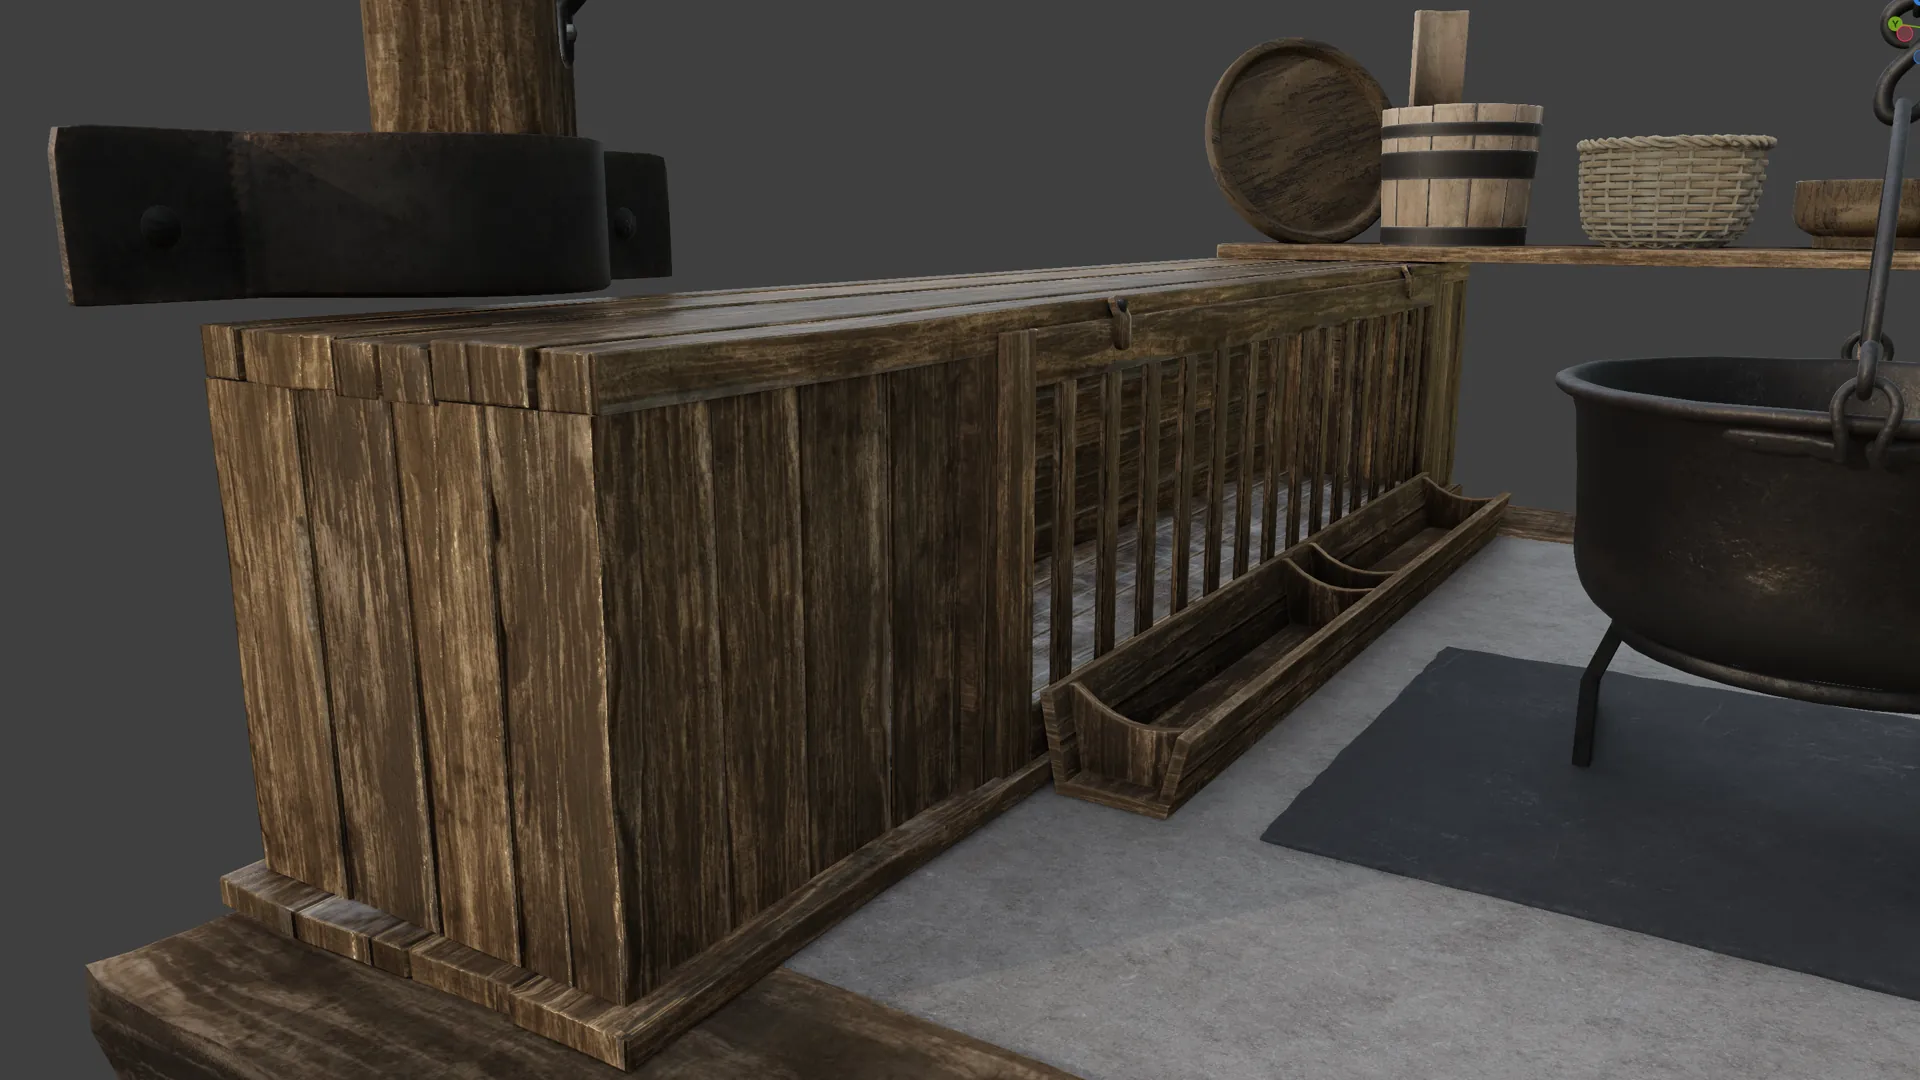
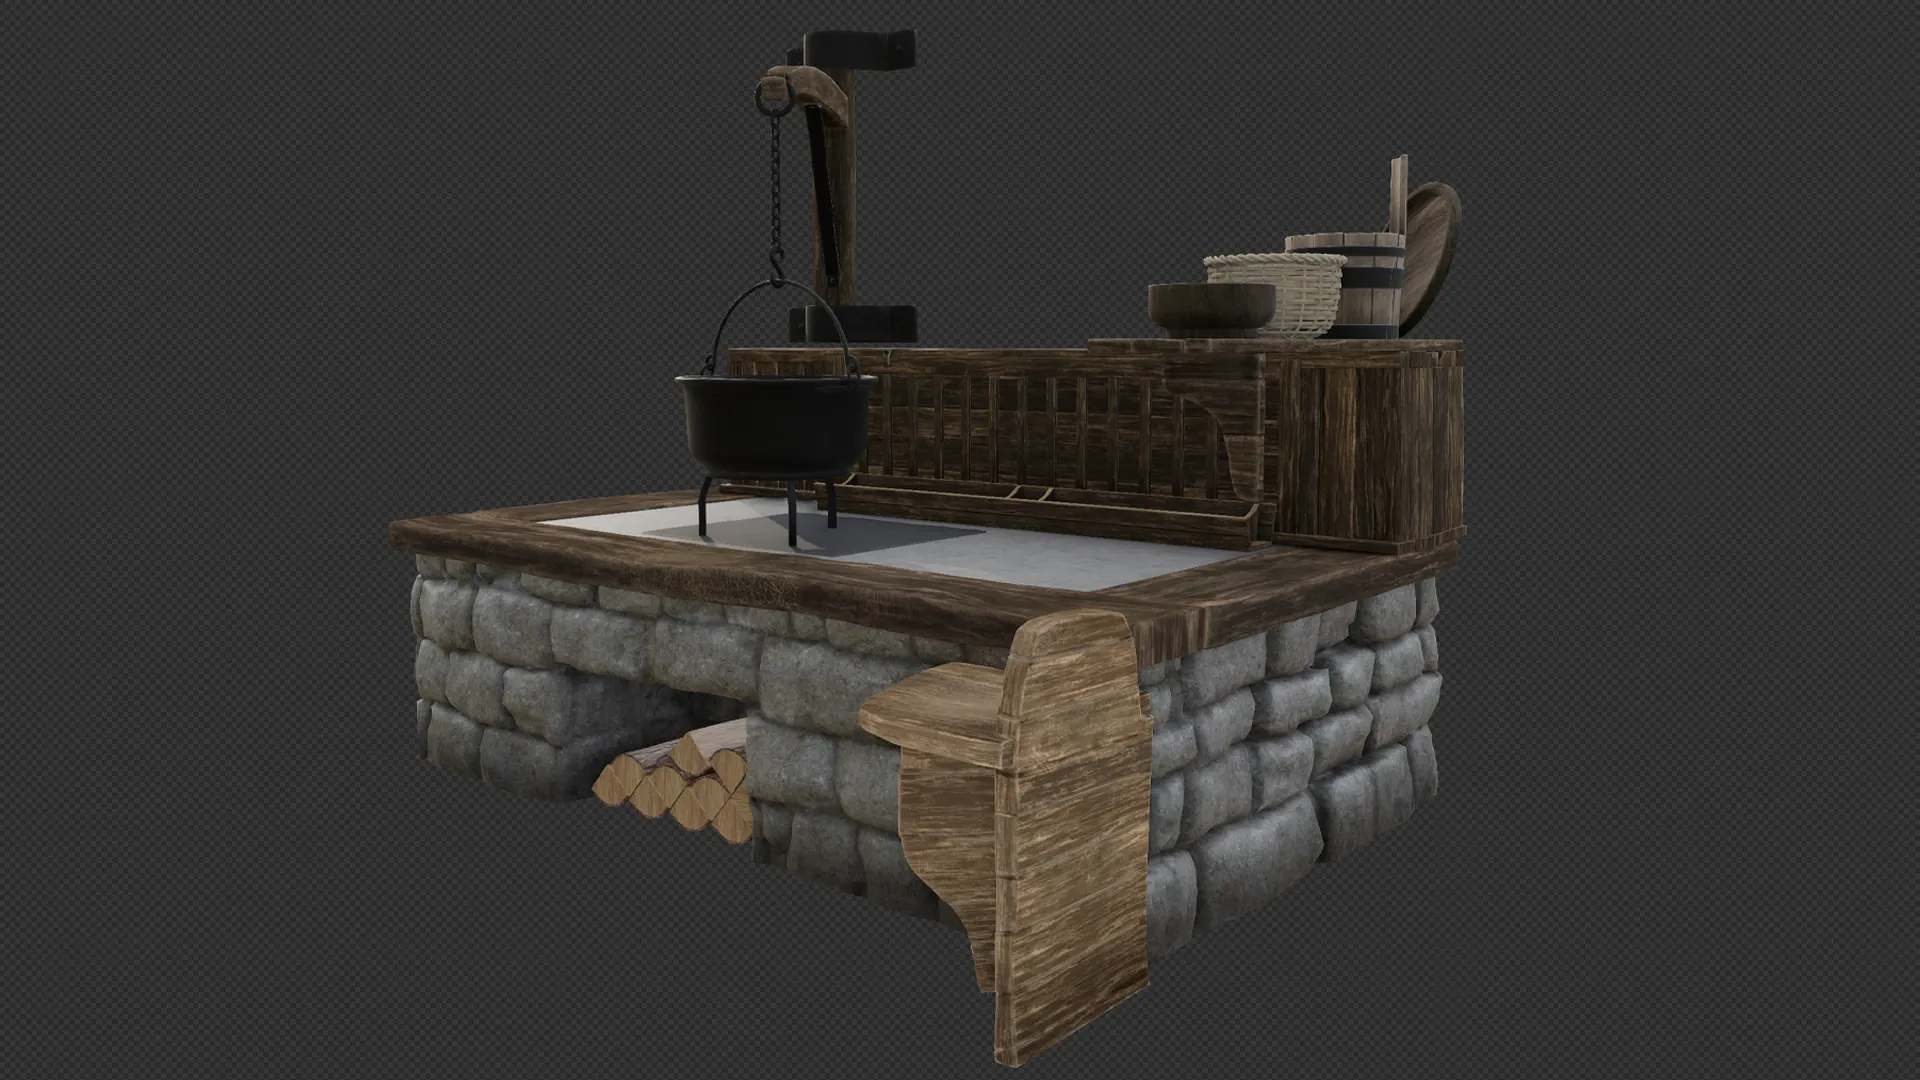
more pictures

diff --git a/index.html b/index.html
@@ -169,31 +169,9 @@
             </a>
           </article>
 
-          <article class="project-card" data-category="3d offline characters">
-            <a href="projects/plantbot.html" class="project-card__link">
-              <div class="project-card__image">
-                <img src="images/plantbot/01_thumb.webp" alt="Plantbot Closeup" loading="lazy">
-              </div>
-              <div class="project-card__body">
-                <span class="tag tag--sm">3D | Offline | Charaktere</span>
-                <p class="project-card__client">Privates Projekt</p>
-                <h3 class="project-card__title">Plant Bot</h3>
-              </div>
-            </a>
-          </article>
 
-          <article class="project-card" data-category="graphic-design">
-            <a href="projects/metoo.html" class="project-card__link">
-              <div class="project-card__image">
-                <img src="images/metoo/01_thumb.webp" alt="Energydrink Dosen" loading="lazy">
-              </div>
-              <div class="project-card__body">
-                <span class="tag tag--sm">Grafikdesign</span>
-                <p class="project-card__client">WDA</p>
-                <h3 class="project-card__title">Me Too - Energydrink</h3>
-              </div>
-            </a>
-          </article>
+
+
           <article class="project-card" data-category="3d offline characters">
             <a href="projects/ruindoll.html" class="project-card__link">
               <div class="project-card__image">
@@ -218,6 +196,60 @@
                 <p class="project-card__client">Universität Innsbruck</p>
                 <h3 class="project-card__title">Gen Alpha eSports</h3>
 
+              </div>
+            </a>
+          </article>
+
+                    <article class="project-card" data-category="3d realtime animation characters">
+            <a href="projects/vogel-aus-dem-eis.html" class="project-card__link">
+              <div class="project-card__image">
+                <img src="images/Vogel aus dem Eis/01_thumb.webp" alt="msqbot" loading="lazy">
+              </div>
+              <div class="project-card__body">
+                <span class="tag tag--sm">3D | Realtime</span>
+                <p class="project-card__client">Medizinische Universität Innsbruck</p>
+                <h3 class="project-card__title">Der Vogel aus dem Eis</h3>
+              </div>
+            </a>
+          </article>
+
+          <article class="project-card" data-category="3d offline characters">
+            <a href="projects/plantbot.html" class="project-card__link">
+              <div class="project-card__image">
+                <img src="images/plantbot/01_thumb.webp" alt="Plantbot Closeup" loading="lazy">
+              </div>
+              <div class="project-card__body">
+                <span class="tag tag--sm">3D | Offline | Charaktere</span>
+                <p class="project-card__client">Privates Projekt</p>
+                <h3 class="project-card__title">Plant Bot</h3>
+              </div>
+            </a>
+          </article>
+
+
+
+          <article class="project-card" data-category="3d realtime">
+            <a href="projects/game-assets.html" class="project-card__link">
+              <div class="project-card__image">
+                <img src="images/game-assets/01_thumb.webp" alt="altertümliche Küche" loading="lazy">
+              </div>
+              <div class="project-card__body">
+                <span class="tag tag--sm">3D | Realtime</span>
+                <p class="project-card__client">Privates Projekt</p>
+                <h3 class="project-card__title">Game Assets</h3>
+              </div>
+            </a>
+          </article>
+          
+                    <article class="project-card" data-category="graphic-design">
+            <a href="projects/metoo.html" class="project-card__link">
+              <div class="project-card__image">
+                <img src="images/metoo/01_thumb.webp" alt="Energydrink Dosen" loading="lazy">
+              </div>
+              <div class="project-card__body">
+                <span class="tag tag--sm">Grafikdesign</span>
+                <p class="project-card__client">WDA</p>
+                <h3 class="project-card__title">Me Too - Energydrink</h3>
               </div>
             </a>
           </article>
@@ -250,18 +282,7 @@
           </article>
 
 
-          <article class="project-card" data-category="3d realtime animation characters">
-            <a href="projects/vogel-aus-dem-eis.html" class="project-card__link">
-              <div class="project-card__image">
-                <img src="images/Vogel aus dem Eis/01_thumb.webp" alt="msqbot" loading="lazy">
-              </div>
-              <div class="project-card__body">
-                <span class="tag tag--sm">3D | Realtime</span>
-                <p class="project-card__client">Medizinische Universität Innsbruck</p>
-                <h3 class="project-card__title">Der Vogel aus dem Eis</h3>
-              </div>
-            </a>
-          </article>
+
 
 
           <article class="project-card" data-category="3d offline animation">
@@ -371,20 +392,6 @@
             </a>
           </article>
 
-
-
-          <article class="project-card" data-category="3d realtime">
-            <a href="projects/game-assets.html" class="project-card__link">
-              <div class="project-card__image">
-                <img src="images/game-assets/01_thumb.webp" alt="altertümliche Küche" loading="lazy">
-              </div>
-              <div class="project-card__body">
-                <span class="tag tag--sm">3D | Realtime</span>
-                <p class="project-card__client">Privates Projekt</p>
-                <h3 class="project-card__title">Game Assets</h3>
-              </div>
-            </a>
-          </article>
 
 
 

diff --git a/projects/game-assets.html b/projects/game-assets.html
@@ -48,7 +48,7 @@
       <div
         class="hero-carousel"
         data-images='["../images/game-assets/01.webp","../images/game-assets/02.webp","../images/game-assets/03.webp","../images/game-assets/04.webp"]'
-        data-alts='["Nahaufnahme des game-assets-Gesichts unter dem Hut","Oberkörper der game-assets mit Rüstung und Gürtel","Nahaufnahme der Dolche am Gürtel","Nahaufnahme der strukturierten Bluse"]'
+        data-alts='["Uebersicht Kueche","Nahaufnahme kleine Objekte","Nahaufnahme der Kueche von links","Nahaufnahme des Stuhls"]'
       >
         <div class="hero-carousel__viewport">
           <div class="project-detail__hero">
@@ -108,9 +108,9 @@ Das Texturieren erfolgte in diesem Fall ebenfalls in Blender. Dafür verwendete 
         <h2 class="project-detail__gallery-title">Galerie</h2>
         <div
           class="project-gallery"
-          data-images='["../images/game-assets/05.webp","../images/game-assets/06.webp","../images/game-assets/07.webp","../images/game-assets/08.webp","../images/game-assets/09.webp","../images/game-assets/01.webp"
+          data-images='["../images/game-assets/05.webp","../images/game-assets/06.webp","../images/game-assets/01.webp"
           ,"../images/game-assets/02.webp","../images/game-assets/03.webp","../images/game-assets/04.webp"]'
-          data-alts='["game-assets als Wireframe, fertiges Render und Silhouette","Wireframe-Nahaufnahme von Hut und Gesicht","Wireframe-Nahaufnahme von Gürtel und Dolchen","Wireframe-Nahaufnahme der Stiefel","Normal-Map-Ansicht von Oberkörper und Hut","Nahaufnahme des game-assets-Gesichts unter dem Hut","Oberkörper der game-assets mit Rüstung und Gürtel","Nahaufnahme der Dolche am Gürtel","Nahaufnahme der strukturierten Bluse"]'
+          data-alts='["Wireframe gesamte Kueche","Wireframe kleine Objekte","Uebersicht Kueche","Nahaufnahme kleine Objekte","Nahaufnahme der Kueche von links","Nahaufnahme des Stuhls"]'
         >
           <button type="button" class="project-gallery__nav project-gallery__nav--prev" aria-label="Scroll gallery left"></button>
           <div class="project-gallery__viewport">
